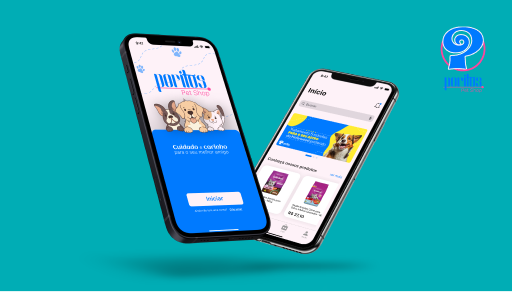
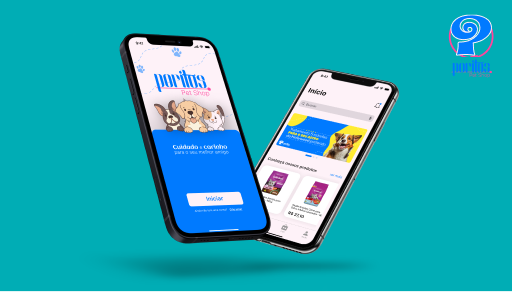
Finished footer

Changed region(s): [[0.8438, 0.0308, 0.9688, 0.339]]

diff --git a/index.html b/index.html
@@ -167,7 +167,7 @@
                 <img src="./assets/img/card3.png" class="card-img" style="width: 55px;" alt="Work 3">
                 <div class="card-body">
                   <h5 class="card-title">Mobile App Development</h5>
-                  <p class="card-text mb-4 mt-3">I develop native mobile applications for iOS, with intuitive, attractive and high-performance interfaces, optimized to offer a fluid and efficient experience to users.</p>
+                  <p class="card-text mb-4 mt-3">I develop native mobile applications for iOS, with intuitive, simple-to-use, interactive and high-performance interfaces, optimized to offer a fluid and efficient experience to users.</p>
                 </div>
               </div>
             </div>
@@ -183,7 +183,7 @@
           <h1 class="text-left pt-4">Some of my <span class="clr">projects</span></h1>
 
           <div class="filter-btn-group mb-5">
-            <button class="filter-btn me-2" data-filter="all">All</button>
+            <button class="filter-btn me-2 active" data-filter="all">All</button>
 
             <button class="filter-btn me-2" data-filter="uiux">UI/UX</button>
 
@@ -193,7 +193,7 @@
           </div>
           <div class="row">
 
-            <div class="col-xl-3 pt-1 cards">
+            <div class="col-xl-3 pt-1 cards-work web">
               <div class="card">
                 <img src="./assets/img/Thumbnail_web.png" class="card-img-top" alt="Project 1">
                 <div class="card-body">
@@ -204,7 +204,7 @@
               </div>
             </div>
 
-            <div class="col-xl-3 pt-1 cards">
+            <div class="col-xl-3 pt-1 cards-work mobile">
               <div class="card">
                 <img src="./assets/img/Thumbnail_mobile1.png" class="card-img-top" alt="Project 2">
                 <div class="card-body">
@@ -215,7 +215,7 @@
               </div>
             </div>
 
-            <div class="col-xl-3 pt-1 cards">
+            <div class="col-xl-3 pt-1 cards-work mobile">
               <div class="card">
                 <img src="./assets/img/Thumbnail_mobile2.png" class="card-img-top" alt="Project 3">
                 <div class="card-body">
@@ -226,9 +226,9 @@
               </div>
             </div>
 
-            <div class="col-xl-3 pt-1 cards">
+            <div class="col-xl-3 pt-1 cards-work uiux">
               <div class="card">
-                <img src="./assets/img/Thumbnail_UIUX.png" class="card-img-top" alt="Project 4">
+                <img src="./assets/img/Thumbnail_uiux.png" class="card-img-top" alt="Project 4">
                 <div class="card-body">
                   <h5 class="card-title-work">Desconation</h5>
                   <p class="card-text-work">Prototype made from the proposal of searching and sharing promotions and discounts. Allows users to find ways to save.</p>
@@ -236,14 +236,60 @@
                 </div>
               </div>
             </div>
-
           </div>
-
         </div>
       </section>
     </main>
 
-    <footer>
+    <footer class="footer" id="contact">
+      <div class="container mb-3">
+        
+        <h1 class="text-center mt-5 ">Talk to <span class="clr">me!</span></h1>
+        <p class="srvc-desc d-50 mx-auto text-center mb-5">Want to contact me by email? Enter your email address below. Or if you prefer, try the contact links in the footer or home.</p>
+        
+        <div class="email">
+          <input class="email-field" type="email" id="email" name="email" placeholder="Enter your email" required>
+          <button class="btn" onclick="sendEmail()">Contact me</button>
+        </div>
+
+        <div class="final-info-logo mt-5 pt-5">
+          <img src="./assets/img/logo.svg" width="200px" alt="Logo">
+        </div>
+        
+          <ul class="navbar-nav-footer m-3">
+            <li class="nav-item">
+              <a class="nav-link" href="#home">Home</a>
+            </li>
+            <li class="nav-item">
+              <a class="nav-link" href="#aboutme">About me</a>
+            </li>
+            <li class="nav-item">
+              <a class="nav-link" href="#services">Services</a>
+            </li>
+            <li class="nav-item">
+              <a class="nav-link" href="#projects">Projects</a>
+            </li>
+            <li class="nav-item">
+              <a class="nav-link" href="#contact">Contact</a>
+            </li>
+          </ul>
+
+          <div class="social-media-buttons-footer d-flex justify-content-center mt-3">
+            <a href="https://wa.me/+5584996443361" class="btn btn-outline-light btn-social btn-social-lg" target="_blank"><i class="bi bi-whatsapp"></i></a>
+            <a href="https://www.instagram.com/gersondlima/" class="btn btn-outline-light btn-social btn-social-lg" target="_blank"><i class="bi bi-instagram"></i></a>
+            <a href="https://www.linkedin.com/in/gersonlima1/" class="btn btn-outline-light btn-social btn-social-lg" target="_blank"><i class="bi bi-linkedin"></i></a>
+            <a href="https://github.com" class="btn btn-outline-light btn-social btn-social-lg" target="_blank"><i class="bi bi-github"></i></a>
+          </div>
+
+          <div class="row">
+            <div class="col-xl-12 mt-5 cr-footer">
+              <span class="text-white mx-auto inc-text">&copy; 2024 <span class="clr"><b>Gerson Lima</b></span> All Rights Reserved.</span>
+            </div>
+          </div>
+      </div>
+
+     
+
 
     </footer>
 

diff --git a/assets/js/script.js b/assets/js/script.js
@@ -1,9 +1,8 @@
-// Quando a página HTML é completamente carregada...
 document.addEventListener('DOMContentLoaded', function() {
     // Encontra o botão de hamburguer na barra de navegação
-    var toggler = document.querySelector('.navbar-toggler');
+    let toggler = document.querySelector('.navbar-toggler');
     // Encontra a área que contém o menu da barra de navegação
-    var navbarCollapse = document.querySelector('.navbar-collapse');
+    let navbarCollapse = document.querySelector('.navbar-collapse');
 
     // Adiciona um evento de clique no botão de hamburguer
     toggler.addEventListener('click', function() {
@@ -12,7 +11,7 @@ document.addEventListener('DOMContentLoaded', function() {
     });
 
     // Encontra todos os links de navegação dentro do menu
-    var navLinks = document.querySelectorAll('.navbar-nav .nav-link');
+    let navLinks = document.querySelectorAll('.navbar-nav .nav-link');
     // Para cada link encontrado...
     navLinks.forEach(link => {
         // Adiciona um evento de clique a cada link
@@ -26,4 +25,53 @@ document.addEventListener('DOMContentLoaded', function() {
             }
         });
     });
+
+    // Funcionalidade de filtro
+    let filterButtons = document.querySelectorAll('.filter-btn');
+    //cria uma variável que vai selecionar os cards com a classe .cards-work
+    let cards = document.querySelectorAll('.cards-work');
+    //Evento de clique para cada botão e pega os atributos do data-filter
+    filterButtons.forEach(button => {
+        button.addEventListener('click', () => {
+            let filter = button.getAttribute('data-filter');
+            //Para cada botão que tiver o seu filtro selecionado, é mostrado. Caso seja selecionado All, a tela fica estática (nao existem filtros com esse nome, logo todos aparecem)
+            cards.forEach(card => {
+                if (filter === 'all' || card.classList.contains(filter)) {
+                    card.style.display = 'block';
+                } else {
+                    card.style.display = 'none';
+                }
+            });
+            //Garante que o filtro seja limpo antes de aplicar o próximo
+            filterButtons.forEach(btn => btn.classList.remove('active'));
+            button.classList.add('active');
+        });
+    });
 });
+
+function sendEmail() {
+    var email = document.getElementById('email').value;
+    
+    // Expressão regular para validar o formato do email
+    var emailRegex = /^[^\s@]+@[^\s@]+\.[^\s@]+$/;
+    
+    // Verifica se o email preenchido é válido
+    if (emailRegex.test(email)) {
+        // Cria o link mailto com o endereço de email preenchido
+        var mailtoLink = 'mailto:gersondouglas2011@gmail.com?subject=Contato&body=Olá, Gerson Lima%0D%0A%0D%0ATenho interesse no seu trabalho gostaria de te propor o seguinte:%0D%0A%0D%0A%0D%0A%0D%0A%0D%0A%0D%0A%0D%0A%0D%0A%0D%0A%0D%0A%0D%0A%0D%0A';
+        
+        // Adiciona o email do cliente ao corpo do email (opcional)
+        mailtoLink += 'At.te, %0D%0A%0D%0A' + email + '%0D%0A%0D%0A';
+        
+        // Abre o cliente de email padrão com o link mailto
+        window.open(mailtoLink);
+    } 
+     // Verifica se o campo de email está vazio
+     if (email.trim() === '') {
+        alert('Por favor, digite seu email.');
+        return; // Retorna para interromper a execução da função
+        
+    } else {
+        alert('Por favor, digite um email válido.');
+    }
+}

diff --git a/assets/css/styles.css b/assets/css/styles.css
@@ -45,13 +45,13 @@ body {
     color: #FFFFFF;
 }
 
-.navbar-nav .nav-link {
+.navbar-nav .nav-link, .navbar-nav-footer .nav-link {
     color: #FFFFFF;
     border-bottom: 2px solid transparent;
     transition: 0.5s;
 }
 
-.navbar-nav .nav-link:hover {
+.navbar-nav .nav-link:hover, .navbar-nav-footer .nav-link:hover {
     color: #00ADB5;
     border-bottom: 2px solid #00ADB5;
 }
@@ -95,6 +95,17 @@ body {
     border: none;
     margin: 0 -100px;
     margin-right: 106px;
+}
+
+.social-media-buttons-footer .btn-social {
+    display: flex;
+    align-items: center;
+    justify-content: center;
+    border-radius: 100%;
+    font-size: 1.4rem;
+    background-color: transparent;
+    border: none;
+    margin: 0 2px;
 }
 
 .btn-social:hover{
@@ -224,14 +235,15 @@ body {
 }
 
 .container .card .card-text {
-    color: #FFFFFF;
+    color: #EEEEEE;
     text-align: justify;
     margin: 0px 6px;
     line-height: 1.6;
+    font-weight: lighter;
 }
 
 .container .card-title {
-    color: #FFFFFF;
+    color: #EEEEEE;
     margin: 0px 6px;
     margin-top: 40px;
     font-weight: 600;
@@ -251,13 +263,61 @@ body {
 }
 
 .filter-btn:hover {
+    background-color: #077b81;
+}
+
+.filter-btn.active {
     background-color: #00ADB5;
+    color: #FFFFFF;
 }
 
 .card-img-top {
     padding: 16px;
     border-radius: 24px;
 }
+
+.card-title-work {
+    color: #EEEEEE;
+}
+
+.card-text-work {
+    color: #EEEEEE;
+    font-weight: lighter;
+}
+
+.email-field {
+    border-radius: 5px; 
+    width: 420px;
+    height: 38px;
+    border: none;
+    padding-left: 16px;
+    margin-right: 20px;
+}
+
+.email, .final-info-logo, .navbar-nav-footer, .cr-footer {
+    display: flex;
+    align-items: center;
+    justify-content: center;
+}
+
+.navbar-nav-footer .nav-item {
+    list-style: none;
+    margin: 20px;
+}
+
+.cr-footer {
+    position: absolute;
+    padding-bottom: 18PX;
+    right: 0;
+    background-color: #2D333B;
+    color: #2D333B;
+}
+
+.inc-text {
+    margin-top: 20px;
+}
+
+
 
 
 
